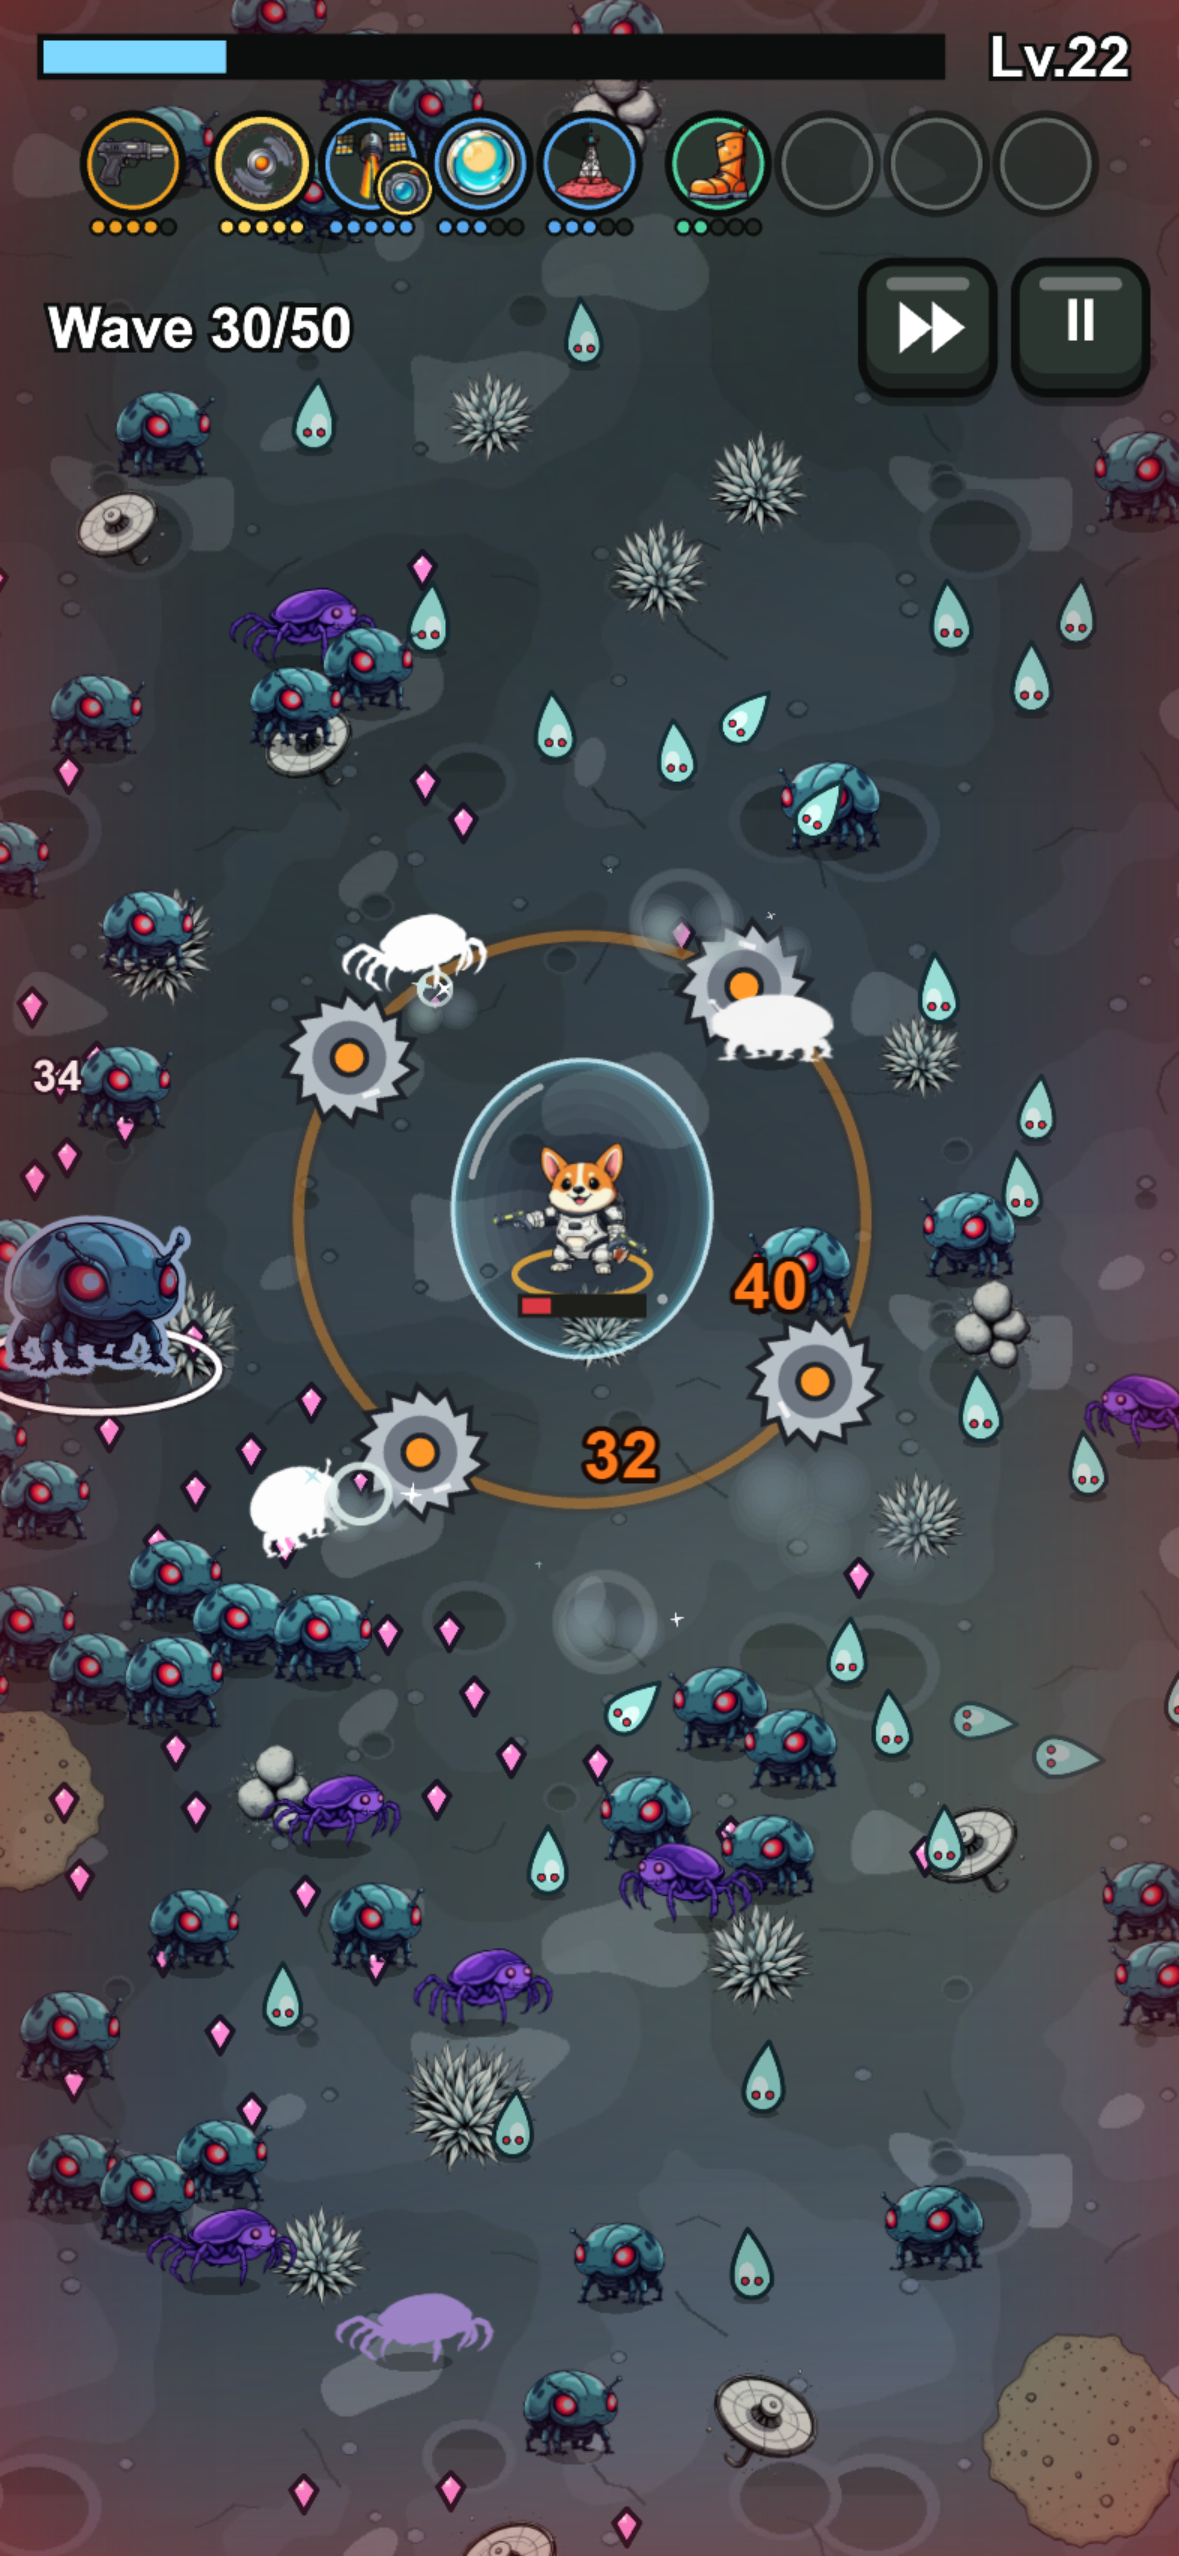
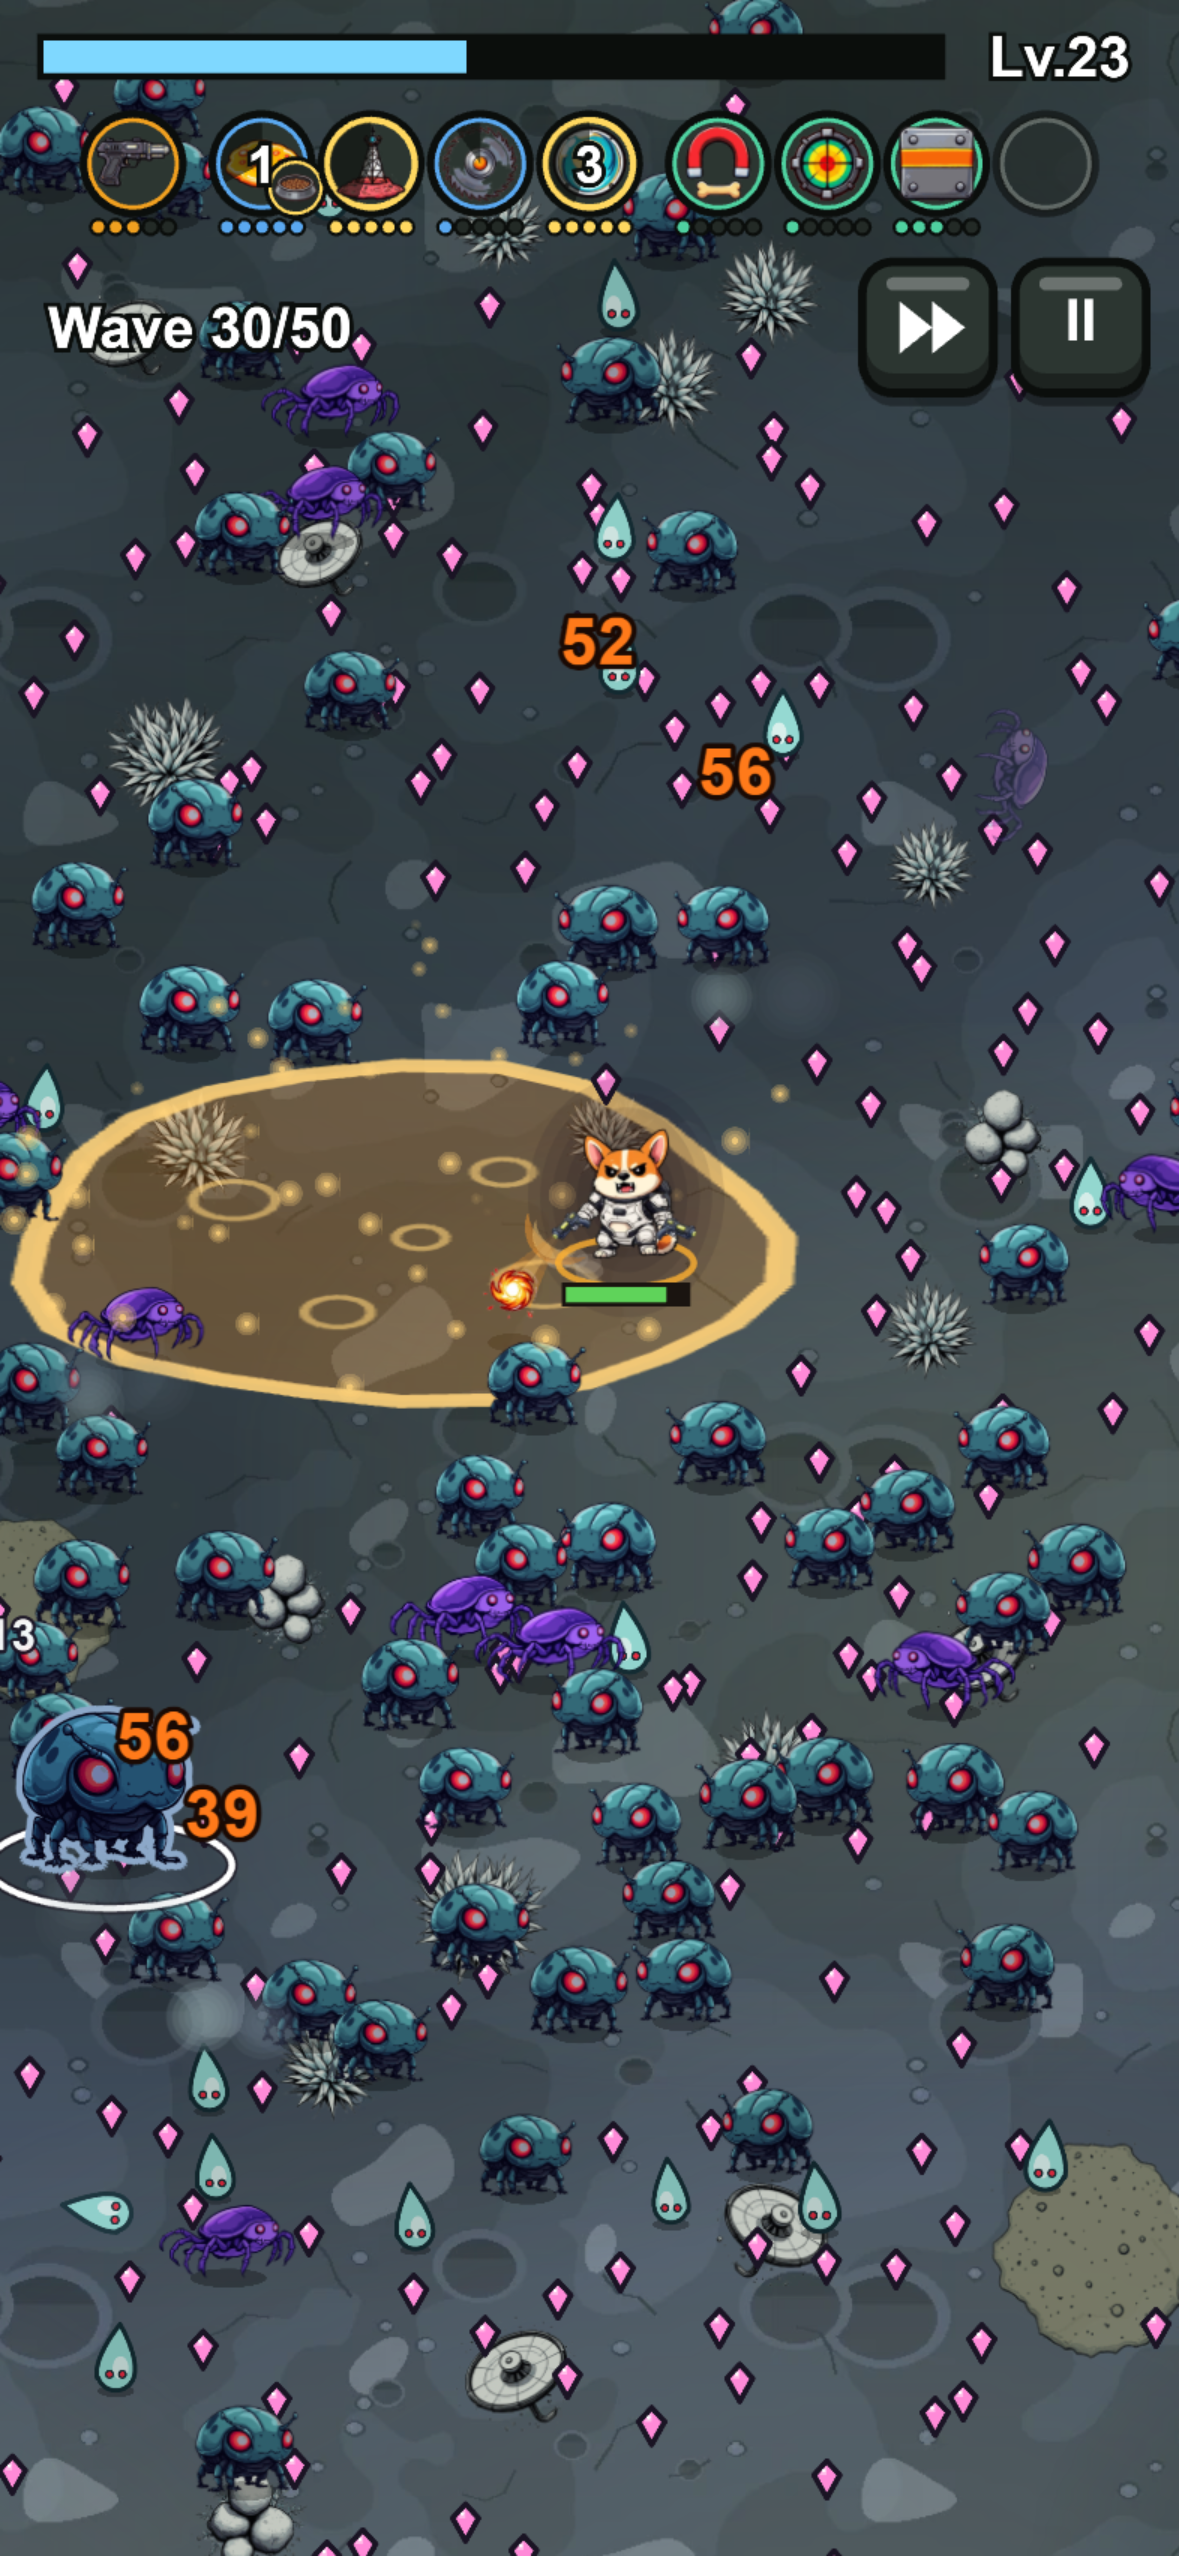
Corgi store shots skip level-up cards and the English horde is retaken at full health; CLAUDE.md names the corgi's hot-update host

diff --git a/docs/store.md b/docs/store.md
@@ -326,7 +326,7 @@ Casual, free, every storefront but mainland China, as for Holy Kicker.
 ### Screenshots
 
 Five per language in `art/reskin/corgi/ios/store/` (`en_*`, `zh_*`), 1179×2556, taken with
-`node tools/store_shots.mjs corgi <en|zh>` from `npm run dev:new` (the Dune World take with
-`--only ch3 --seed 3`; seed 7 falls on the way): a Frost Moon horde at wave 30, the level-up
+`node tools/store_shots.mjs corgi <en|zh>` from `npm run dev:new` (seed 7, but the Dune World
+takes with `--only ch3 --seed 3`, as seed 7 falls on the way, and the English horde with `--seed 5`): a Frost Moon horde at wave 30, the level-up
 cards, the wave 20 Twin Ram Beetles, Dune World at wave 12, and the lobby of a save two planets
 in. App Review's purchase screenshot is `iap_adfree_review_en.png` (`--only iap`).

diff --git a/CLAUDE.md b/CLAUDE.md
@@ -93,5 +93,6 @@ from the sibling project `D:\daydayup`; look there first before inventing platfo
   `corgi-ios-v*`, `npm run build:ios:new`; `client/src/platform/ios/apps.json` holds each app's
   ids, `build/setIosApp.mjs` writes them over the shell in CI; docs/ios.md "Second app").
 - `.github/workflows/ota-ios.yml` — a hot update of an iOS app's web layer (theme monk or corgi),
-  run by hand: zips the iOS web build and deploys it with a manifest to hk-ota.gamestao.com (`wrangler/ota.jsonc`);
+  run by hand: zips the iOS web build and deploys it with a manifest to the app's host, hk-ota.gamestao.com
+  (`wrangler/ota.jsonc`) or the corgi's corgi-ota.gamestao.com (`wrangler/ota-corgi.jsonc`);
   shells fetch it once the game is up and switch at the next launch (`docs/ios.md` "Hot updates").
